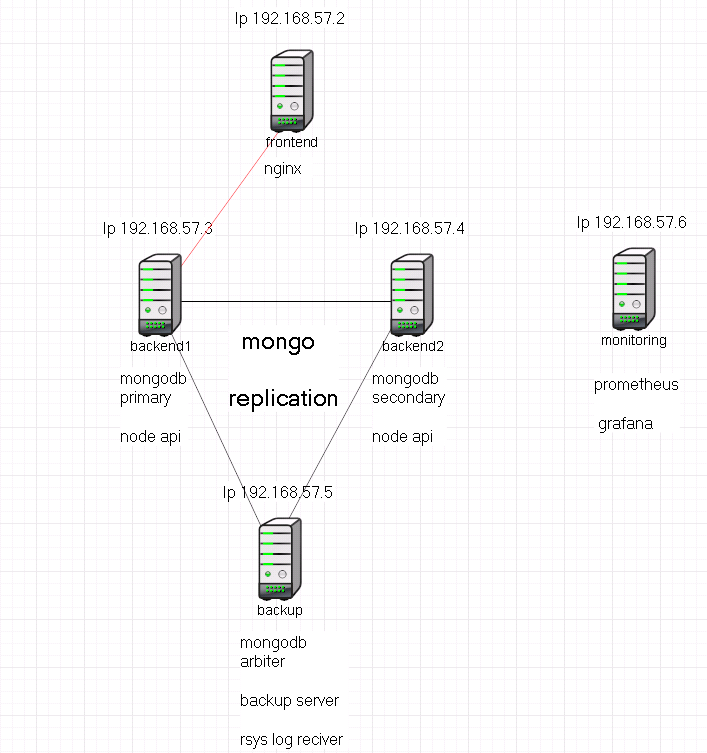
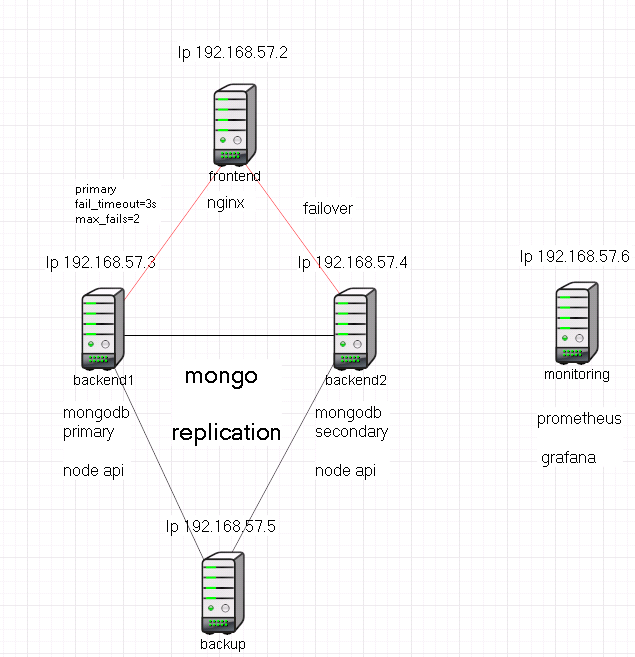
fix nginx

diff --git a/README.md b/README.md
@@ -326,7 +326,7 @@ ansible-playbook install.yml --tags=show_repl -l backend1
 
 ### 3.4 Восстановление сервисов
 
-Сервера frontend, backend2, backup, monitoring восстанавливаются командной:
+Сервера frontend, backend1, backend2, backup, monitoring восстанавливаются командной:
 
 ```bash
 vagrant up "имя сервера"
@@ -335,8 +335,18 @@ vagrant up "имя сервера"
 В случае восстановления backend2, backup, которые являются secondary участниками репликации mongodb,  
 база автоматически произведет репликацию на восстановленный сервер.
 
-При восстановление сервера backend1 необходимо воспользоваться скриптом ``change_app.sh`` переключающим работу frontend nginx на backend2,
-сервер bakend2 автоматически становиться primary членом mongodb
+При восстановление сервера backend1, который является primary участником репликации mongodb, база автоматически произведет репликацию, и backend1 станет primary.
+За автоматическое переключение запросов на резервный бэкенд в случае отказа отвечает nginx сервер:
+
+```nginx
+upstream backend {
+    server {{ backend_name }}:{{ backend_port }} fail_timeout=3s max_fails=2;
+    server {{ backend_name_back }}:{{ backend_port }} backup;
+}
+```
+
+Также стоит учесть, что при восстановление backend1, в момент provision сервера, которое занимает время, так как сервер включен и доступен, nginx будет считать сервер доступным ( хотя сервер еще устаналивается ) и секция:
+``server {{ backend_name }}:{{ backend_port }} fail_timeout=3s max_fails=2;`` будет ввести на еще не готовый сервис. Чтобы этого не происходило, можно воспользоваться скиптом ``change_app.sh`` переключающим на другой бэкенд. Либо производить восстановление в часы для технического обслуживания ( бэкенд будет не доступен ).
 
 ```bash
 cd ansible
@@ -360,12 +370,7 @@ elsif boxconfig[:vm_name] == "backend1"  ansible.tags = ["install_mongo", "enabl
 elsif boxconfig[:vm_name] == "backend1"  ansible.tags = ["install_mongo", "enable_auth", "mongo_conf", "install_node", "create_service", "copy_app", "rsyslog-client", "install_node_exp", "firewall_on"]
 ```
 
-База mongo автоматически реплицируется на восстановленный backend1, после этого нужно frontend перенаправить на backend1.
-
-```bash
-vagrant up backend1
-./change_app.sh
-```
+После восстановления вернуть основной бэкенд скриптом ./change_app.sh ( если скрипт использовали для переключения на backend2 )
 
 ### 3.5 Карта ansible
 
